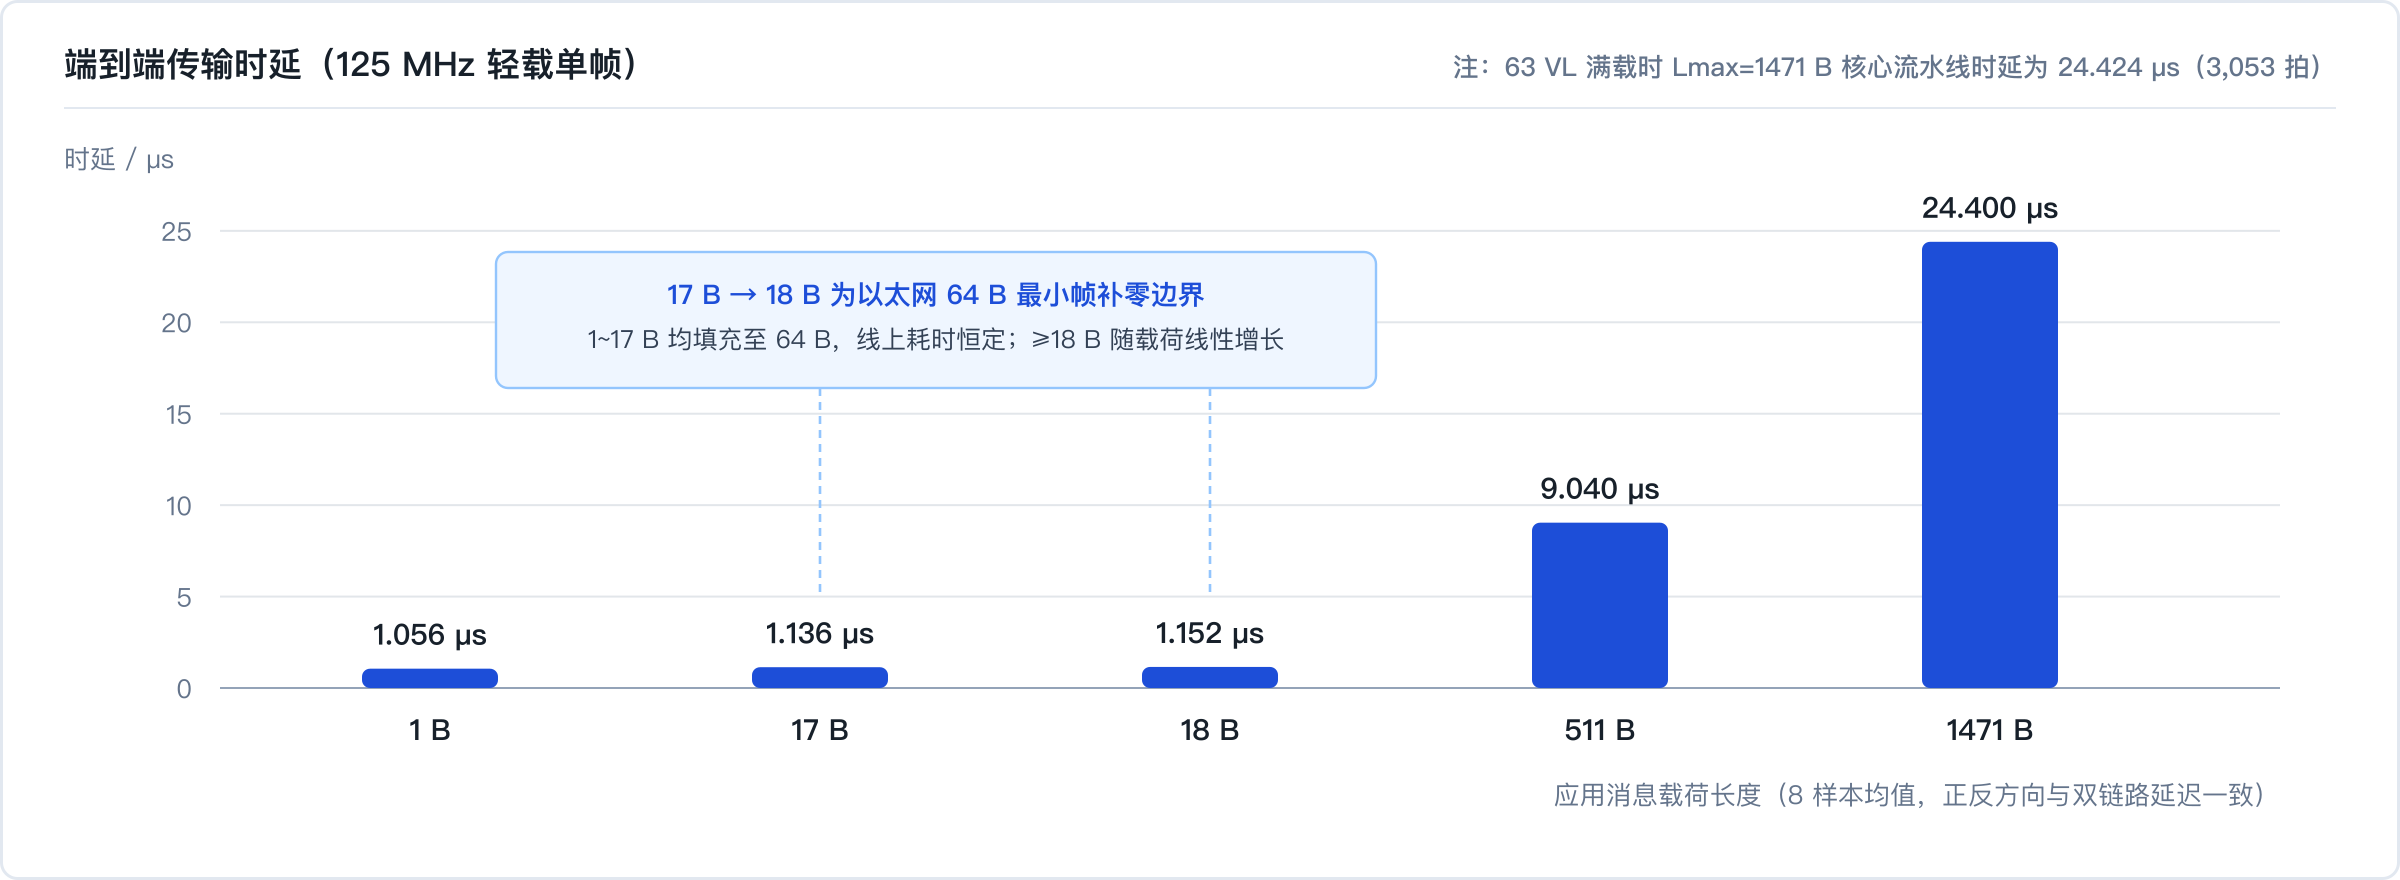
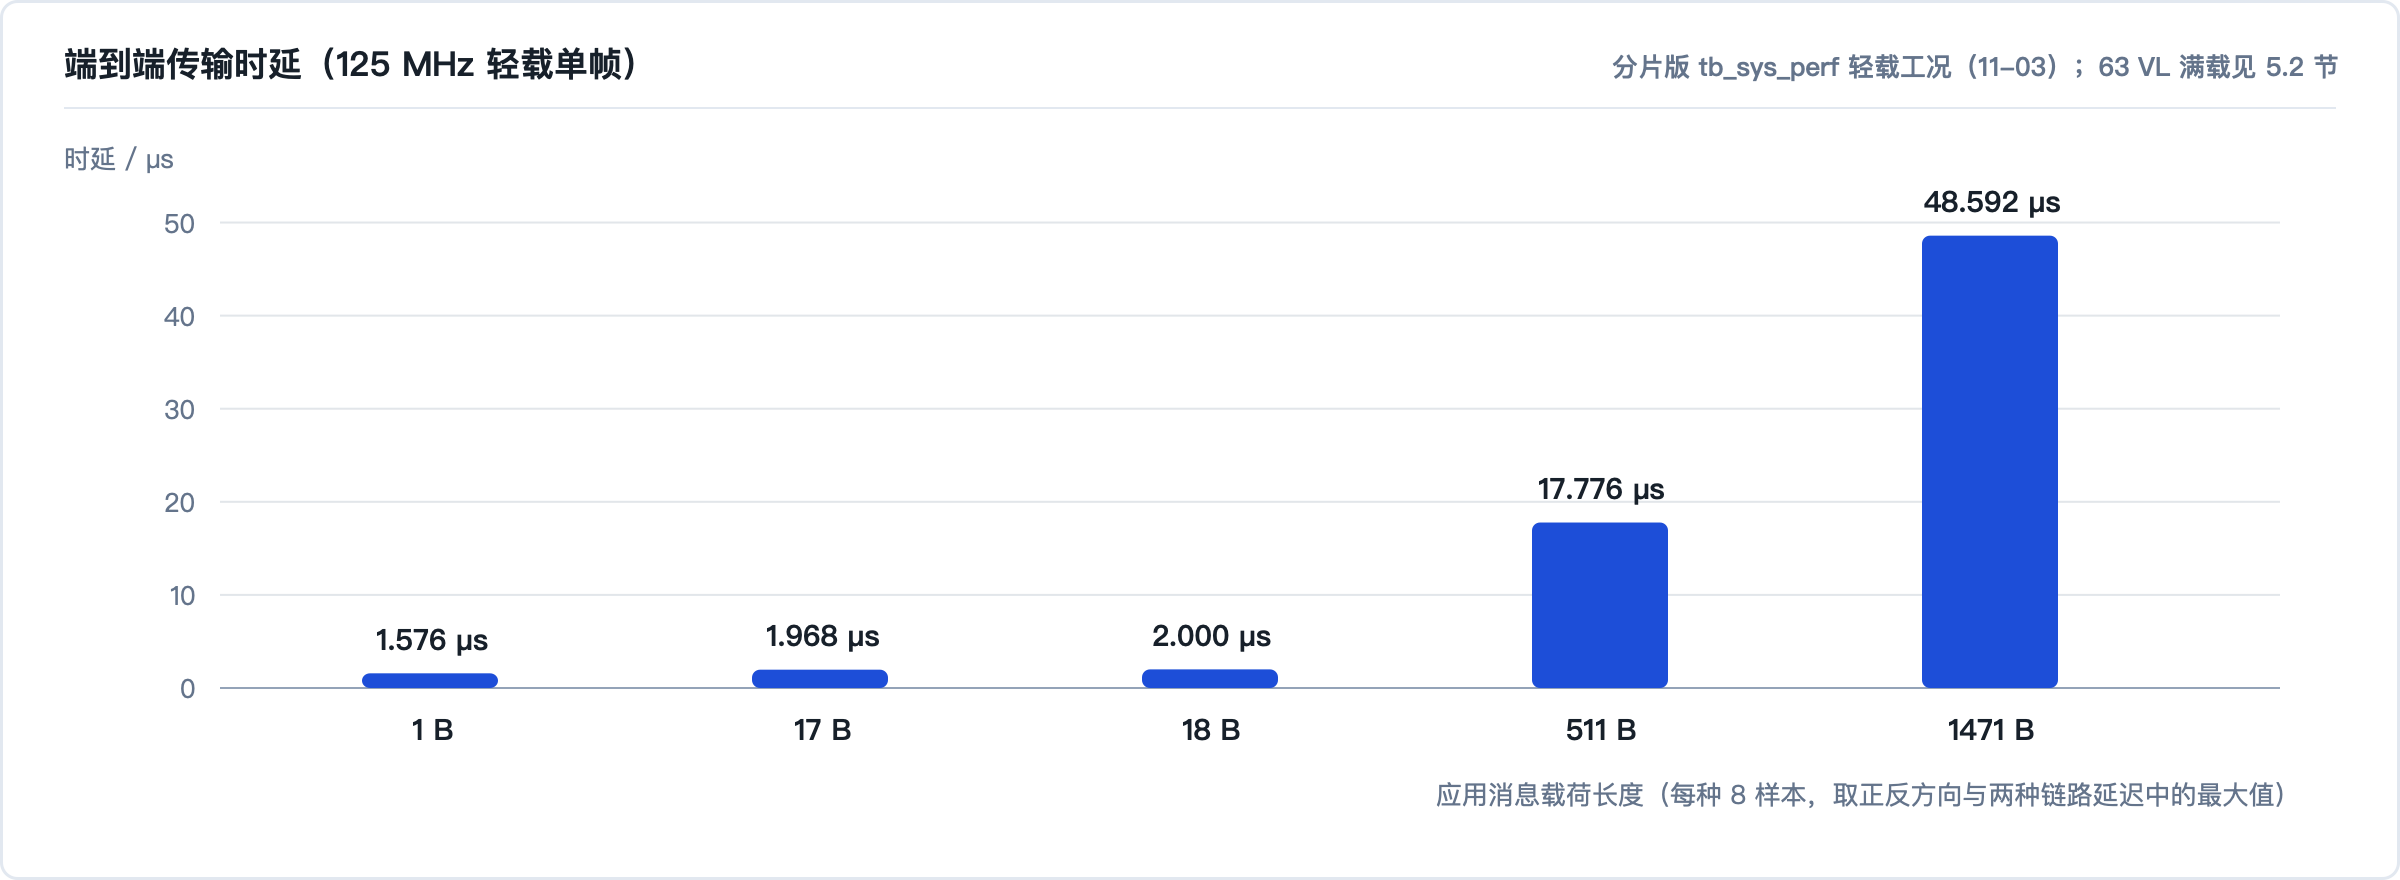
docs(fig): redraw the README latency chart from fragmentation-build measurements
Bars now use the light-load T_e2e maxima of the fragmentation-build
tb_sys_perf run (docs/evidence/t76_frag1030/performance_actual_check_summary.json,
light_d0/light_d257, both directions). The old bars and the 64 B padding
annotation came from a pre-fragmentation run.

diff --git a/docs/fig/make_figures.py b/docs/fig/make_figures.py
@@ -87,15 +87,15 @@ def resource():
 
 def latency():
     points = [
-        ("1 B", 1.056),
-        ("17 B", 1.136),
-        ("18 B", 1.152),
-        ("511 B", 9.040),
-        ("1471 B", 24.400),
+        ("1 B", 1.576),
+        ("17 B", 1.968),
+        ("18 B", 2.000),
+        ("511 B", 17.776),
+        ("1471 B", 48.592),
     ]
     width, height = 1200, 440
     x0, x1, y0, y1 = 110, 1140, 88, 344
-    ymax = 28.0
+    ymax = 55.0
     xs = [215, 410, 605, 800, 995]
     bar_w = 68
 
@@ -104,26 +104,18 @@ def latency():
 
     parts = [
         text(32, 38, "端到端传输时延（125 MHz 轻载单帧）", 17, INK, "start", 700),
-        text(1168, 38, "注：63 VL 满载时 Lmax=1471 B 核心流水线时延为 24.424 µs（3,053 拍）", 13, MUTED, "end", 500),
+        text(1168, 38, "分片版 tb_sys_perf 轻载工况（11-03）；63 VL 满载见 5.2 节", 13, MUTED, "end", 500),
         f'<line x1="32" y1="54" x2="1168" y2="54" stroke="{OUTER_BORDER}" stroke-width="1"/>',
         text(32, 84, "时延 / µs", 13, MUTED),
     ]
 
-    for tick in (0, 5, 10, 15, 20, 25):
+    for tick in (0, 10, 20, 30, 40, 50):
         y = py(tick)
         parts.append(
             f'<line x1="{x0}" y1="{y:.2f}" x2="{x1}" y2="{y:.2f}" '
             f'stroke="{GRID if tick > 0 else AXIS}" stroke-width="1"/>'
         )
         parts.append(text(x0 - 14, y + 5, str(tick), 13, MUTED, "end"))
-
-    parts += [
-        box(248, 126, 440, 68, ACCENT_SOFT, ACCENT_BORDER, 1.2, 6),
-        text(468, 152, "17 B → 18 B 为以太网 64 B 最小帧补零边界", 13.5, ACCENT, "middle", 700),
-        text(468, 174, "1~17 B 均填充至 64 B，线上耗时恒定；≥18 B 随载荷线性增长", 12.5, SLATE, "middle"),
-        f'<line x1="410" y1="194" x2="410" y2="296" stroke="{ACCENT_BORDER}" stroke-dasharray="4 3" stroke-width="1.3"/>',
-        f'<line x1="605" y1="194" x2="605" y2="296" stroke="{ACCENT_BORDER}" stroke-dasharray="4 3" stroke-width="1.3"/>',
-    ]
 
     for x, (label, value) in zip(xs, points):
         top = py(value)
@@ -135,7 +127,7 @@ def latency():
         parts.append(text(x, top - 12, f"{value:.3f} µs", 14.5, INK, "middle", 700))
         parts.append(text(x, y1 + 26, label, 14.5, INK, "middle", 600))
 
-    parts.append(text(x1, y1 + 58, "应用消息载荷长度（8 样本均值，正反方向与双链路延迟一致）", 13, MUTED, "end"))
+    parts.append(text(x1, y1 + 58, "应用消息载荷长度（每种 8 样本，取正反方向与两种链路延迟中的最大值）", 13, MUTED, "end"))
     return document(width, height, parts)
 
 
